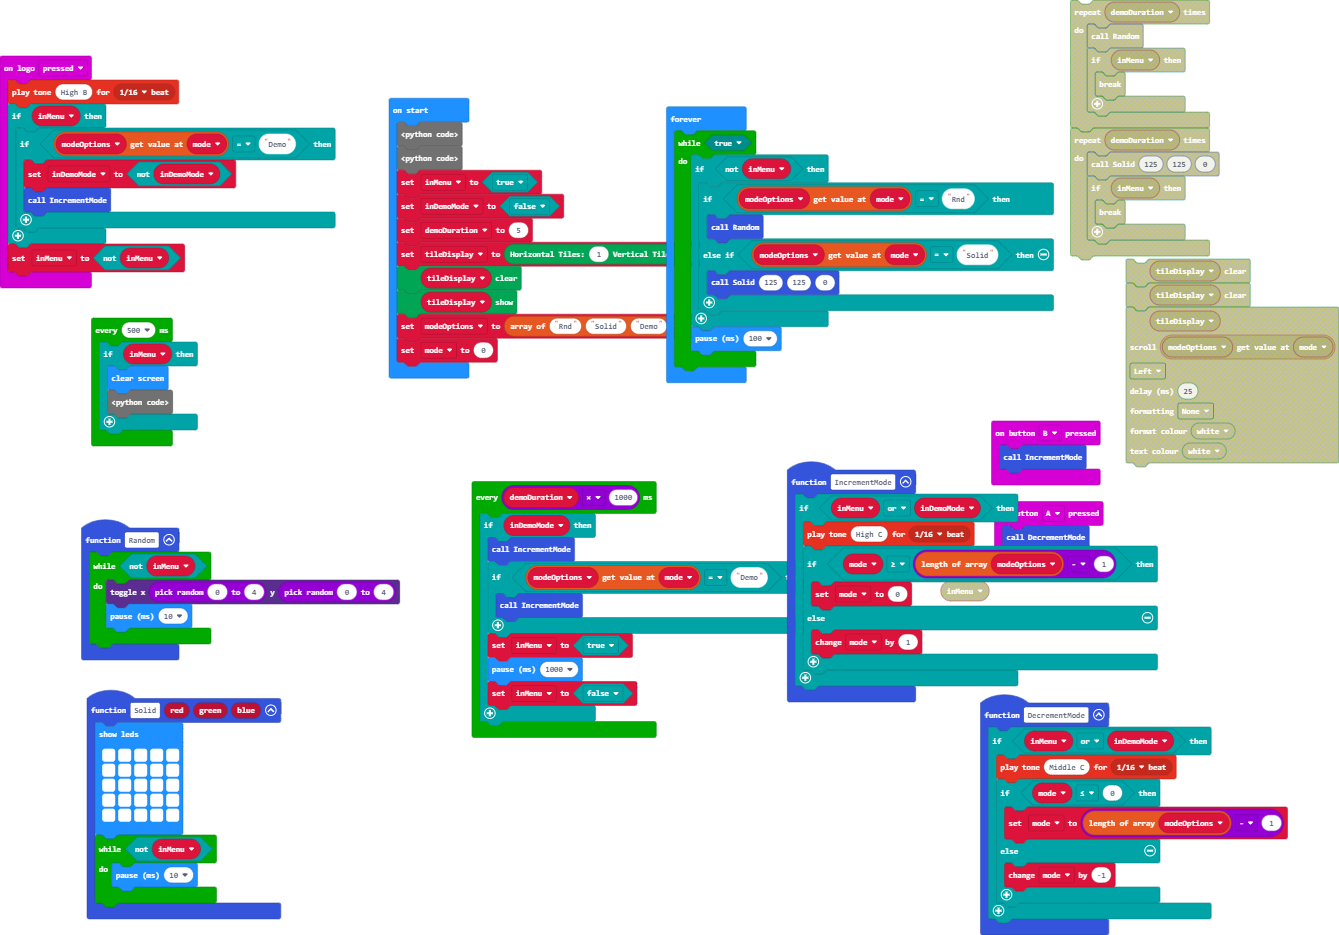
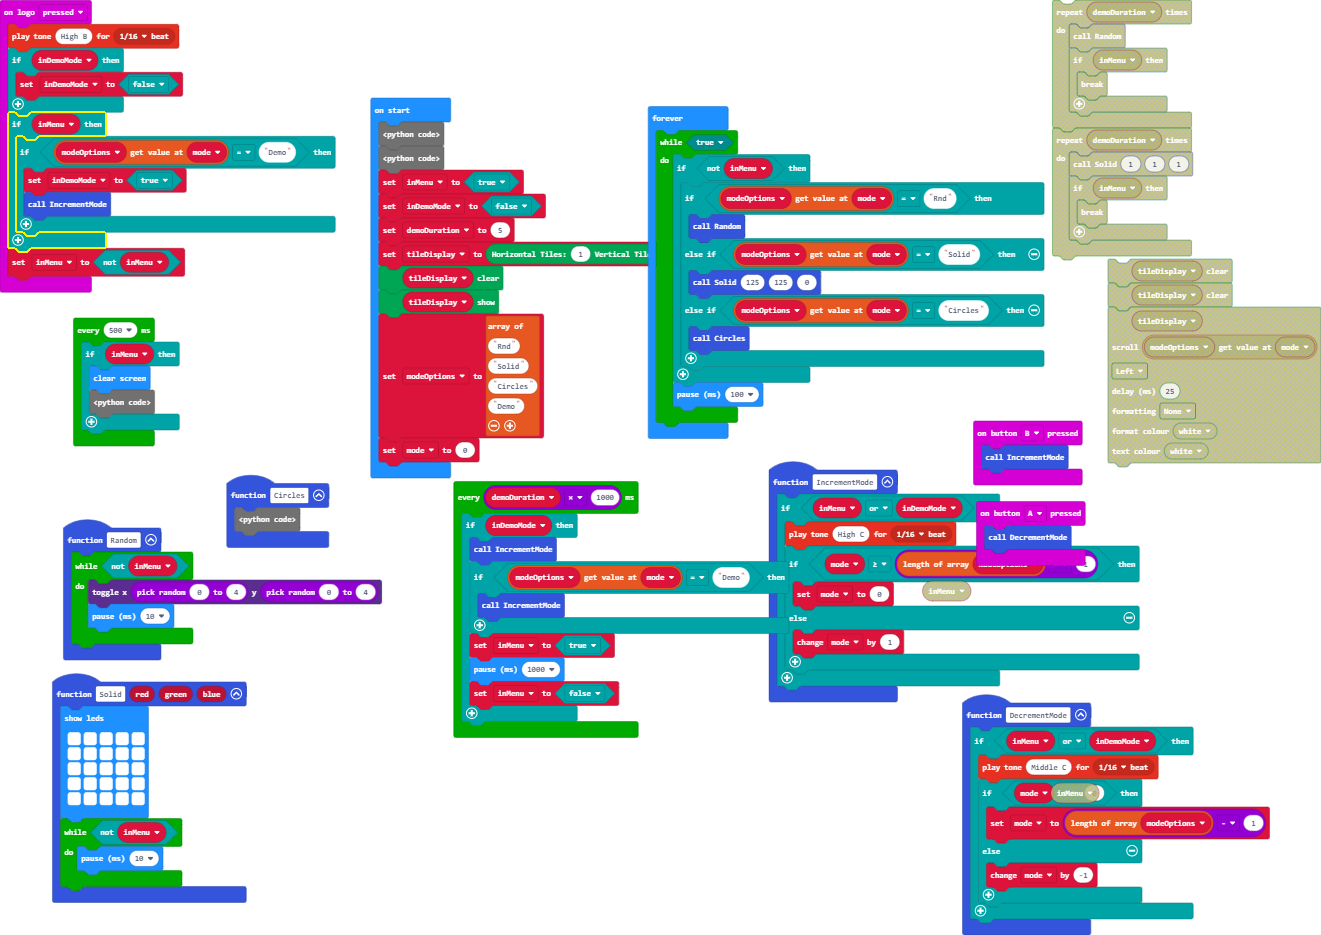
Fully working demo auto cycling!!! Finally

diff --git a/main.ts b/main.ts
@@ -4,6 +4,9 @@ function Random () {
         basic.pause(10)
     }
 }
+function Circles () {
+    basic.showIcon(IconNames.Diamond, 10)
+}
 function IncrementMode () {
     if (inMenu || inDemoMode) {
         music.playTone(523, music.beat(BeatFraction.Sixteenth))
@@ -34,9 +37,12 @@ function Solid (red: number, green: number, blue: number) {
 }
 input.onLogoEvent(TouchButtonEvent.Pressed, function () {
     music.playTone(988, music.beat(BeatFraction.Sixteenth))
+    if (inDemoMode) {
+        inDemoMode = false
+    }
     if (inMenu) {
         if (modeOptions[mode] == "Demo") {
-            inDemoMode = !(inDemoMode)
+            inDemoMode = true
             IncrementMode()
         }
     }
@@ -54,15 +60,20 @@ function DecrementMode () {
 }
 let inDemoMode = false
 let inMenu = false
-let modeOptions : string[] = []
 let mode = 0
+let modeOptions : string[] = []
 inMenu = true
 inDemoMode = false
 let demoDuration = 5
 let tileDisplay = Kitronik_Zip_Tile.createZIPTileDisplay(1, 1, Kitronik_Zip_Tile.UBitLocations.Hidden)
 tileDisplay.clear()
 tileDisplay.show()
-modeOptions = ["Rnd", "Solid", "Demo"]
+modeOptions = [
+"Rnd",
+"Solid",
+"Circles",
+"Demo"
+]
 mode = 0
 loops.everyInterval(demoDuration * 1000, function () {
     if (inDemoMode) {
@@ -88,6 +99,8 @@ basic.forever(function () {
                 Random()
             } else if (modeOptions[mode] == "Solid") {
                 Solid(125, 125, 0)
+            } else if (modeOptions[mode] == "Circles") {
+                Circles()
             }
         }
         basic.pause(100)

diff --git a/main.py b/main.py
@@ -2,9 +2,11 @@ def Random():
     while not (inMenu):
         led.toggle(randint(0, 4), randint(0, 4))
         basic.pause(10)
+def Circles():
+    basic.show_icon(IconNames.DIAMOND,10)
 def IncrementMode():
     global mode
-    if inMenu:
+    if inMenu or inDemoMode:
         music.play_tone(523, music.beat(BeatFraction.SIXTEENTH))
         if mode >= len(modeOptions) - 1:
             mode = 0
@@ -31,37 +33,45 @@ def Solid(red: number, green: number, blue: number):
         basic.pause(10)
 
 def on_logo_pressed():
-    global inMenu
+    global inDemoMode, inMenu
     music.play_tone(988, music.beat(BeatFraction.SIXTEENTH))
+    if inMenu:
+        if modeOptions[mode] == "Demo":
+            inDemoMode = not (inDemoMode)
+            IncrementMode()
     inMenu = not (inMenu)
 input.on_logo_event(TouchButtonEvent.PRESSED, on_logo_pressed)
 
 def DecrementMode():
     global mode
-    if inMenu:
+    if inMenu or inDemoMode:
         music.play_tone(262, music.beat(BeatFraction.SIXTEENTH))
         if mode <= 0:
             mode = len(modeOptions) - 1
         else:
             mode += -1
+inDemoMode = False
 inMenu = False
 modeOptions: List[str] = []
 mode = 0
 inMenu = True
 inDemoMode = False
-demoDuration = 2
-loopNumber = 0
+demoDuration = 5
 tileDisplay = Kitronik_Zip_Tile.create_zip_tile_display(1, 1, Kitronik_Zip_Tile.UBitLocations.HIDDEN)
 tileDisplay.clear()
 tileDisplay.show()
-modeOptions = ["Rnd", "Sweep", "Circles", "Solid", "Demo"]
+modeOptions = ["Rnd", "Solid", "Demo"]
 mode = 0
 
 def on_every_interval():
+    global inMenu
     if inDemoMode:
         IncrementMode()
         if modeOptions[mode] == "Demo":
             IncrementMode()
+        inMenu = True
+        basic.pause(1000)
+        inMenu = False
 loops.every_interval(demoDuration * 1000, on_every_interval)
 
 def on_every_interval2():
@@ -77,5 +87,7 @@ def on_forever():
                 Random()
             elif modeOptions[mode] == "Solid":
                 Solid(125, 125, 0)
-            basic.pause(10)
+            elif modeOptions[mode] == "Circles":
+                pass
+        basic.pause(100)
 basic.forever(on_forever)
